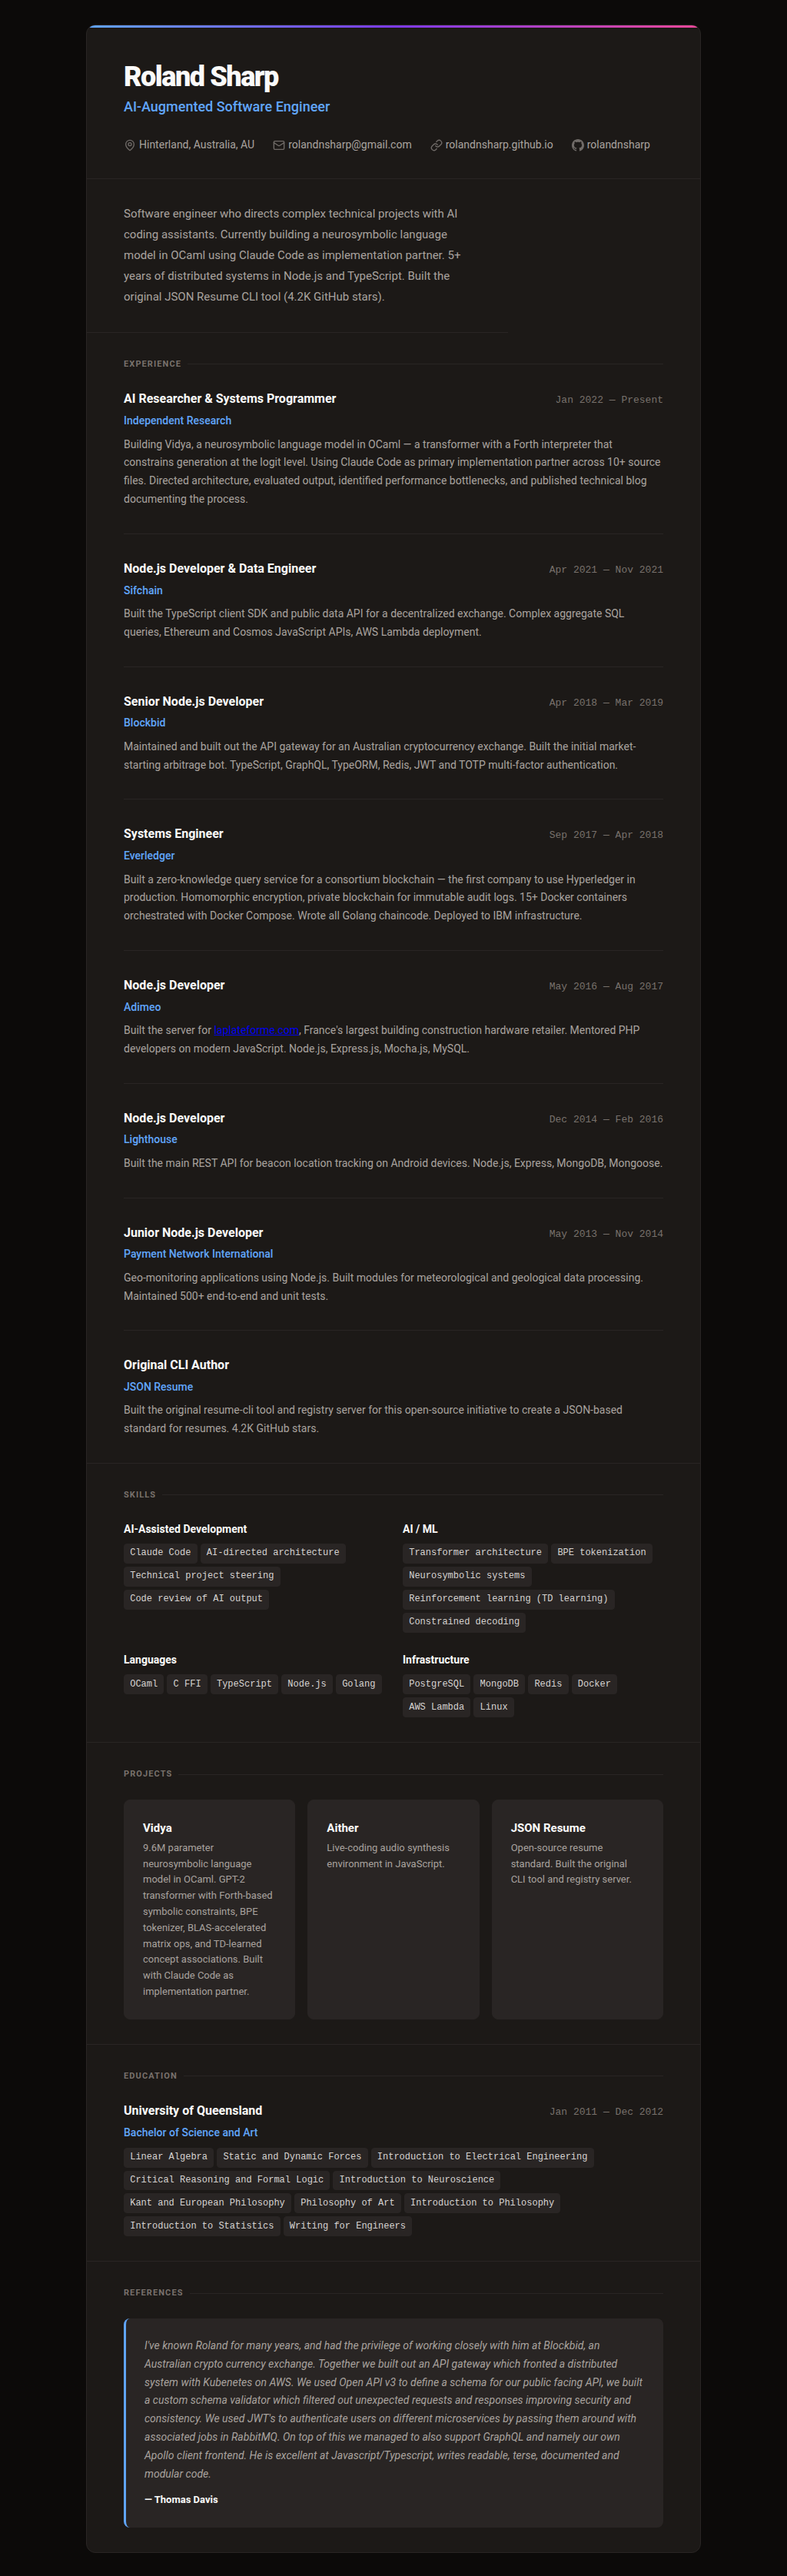
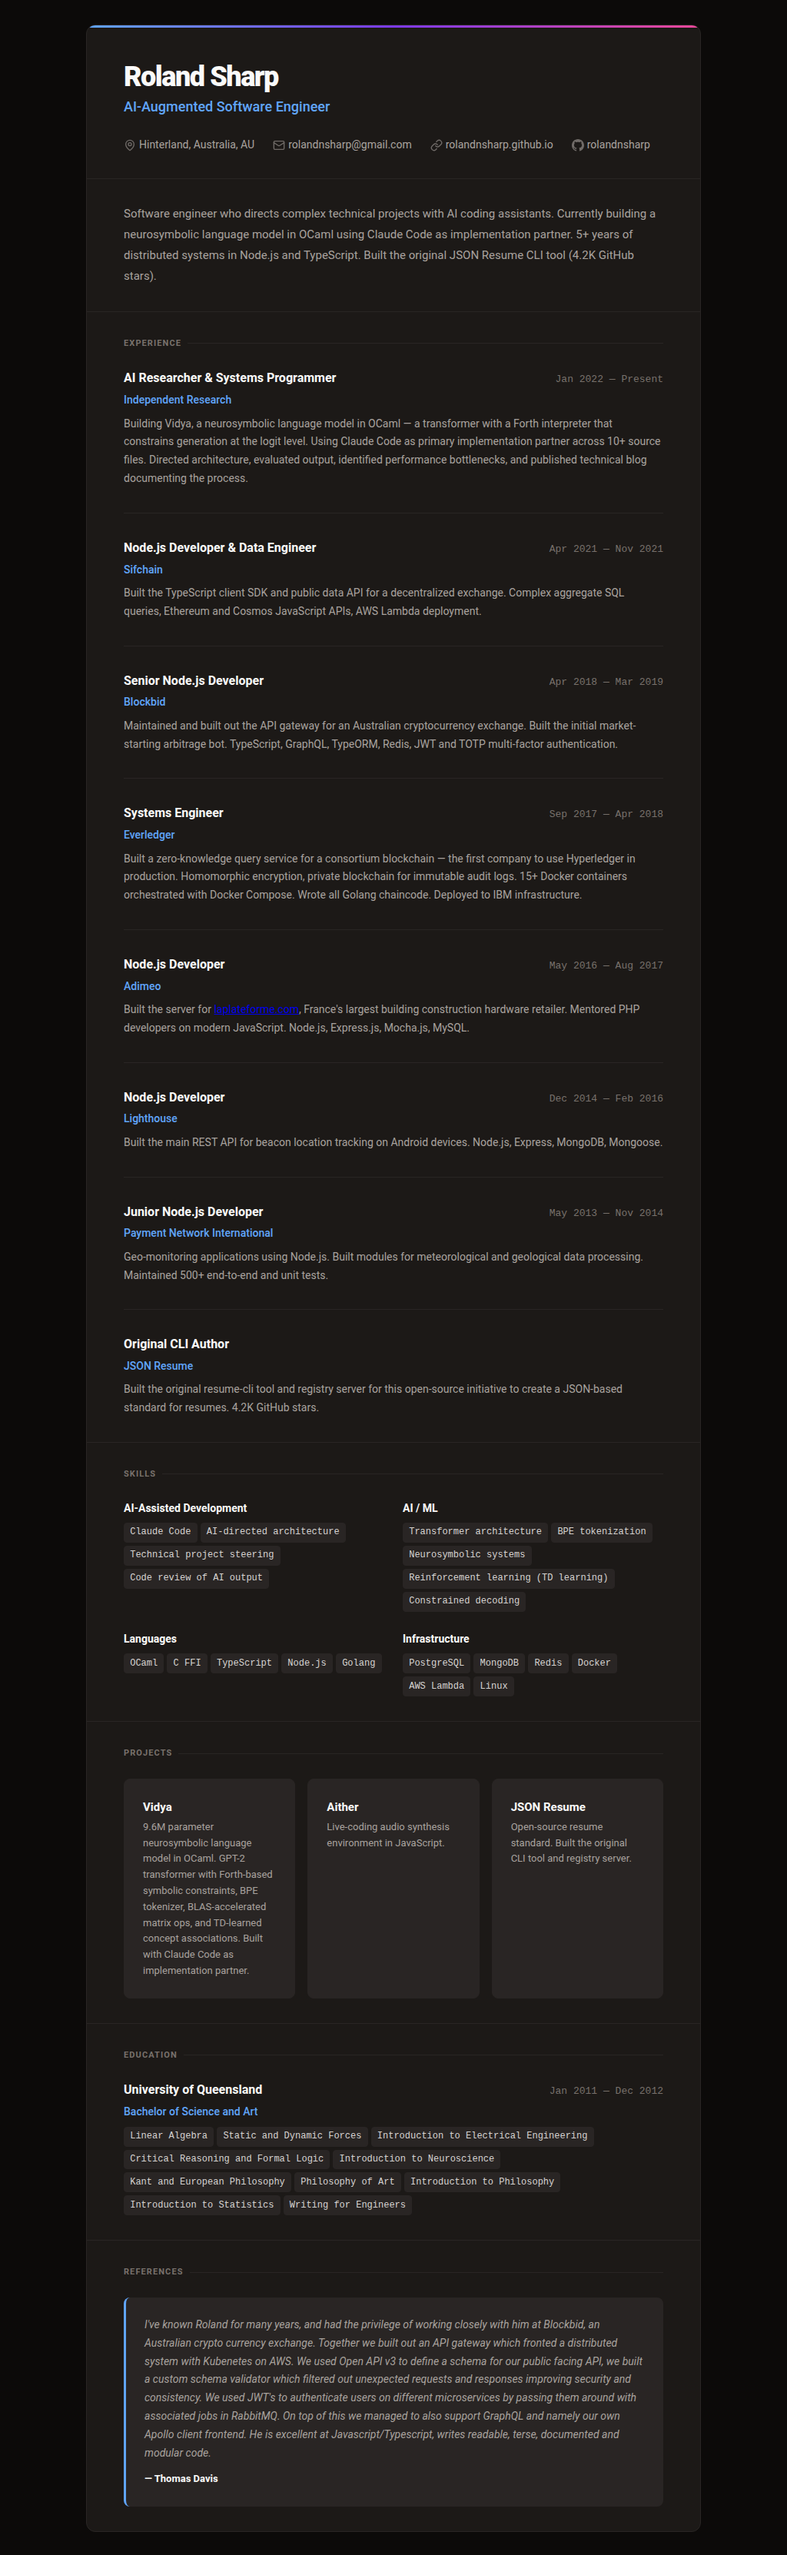
Remove max-width constraint on summary for consistent text wrapping

diff --git a/index.js b/index.js
@@ -169,7 +169,6 @@ export function render(resume) {
       font-size: 0.9375rem;
       color: var(--color-text-secondary);
       line-height: 1.8;
-      max-width: 65ch;
     }
 
     .summary p { margin-bottom: var(--spacing-sm); }

diff --git a/resume.html b/resume.html
@@ -132,7 +132,6 @@
       font-size: 0.9375rem;
       color: var(--color-text-secondary);
       line-height: 1.8;
-      max-width: 65ch;
     }
 
     .summary p { margin-bottom: var(--spacing-sm); }
